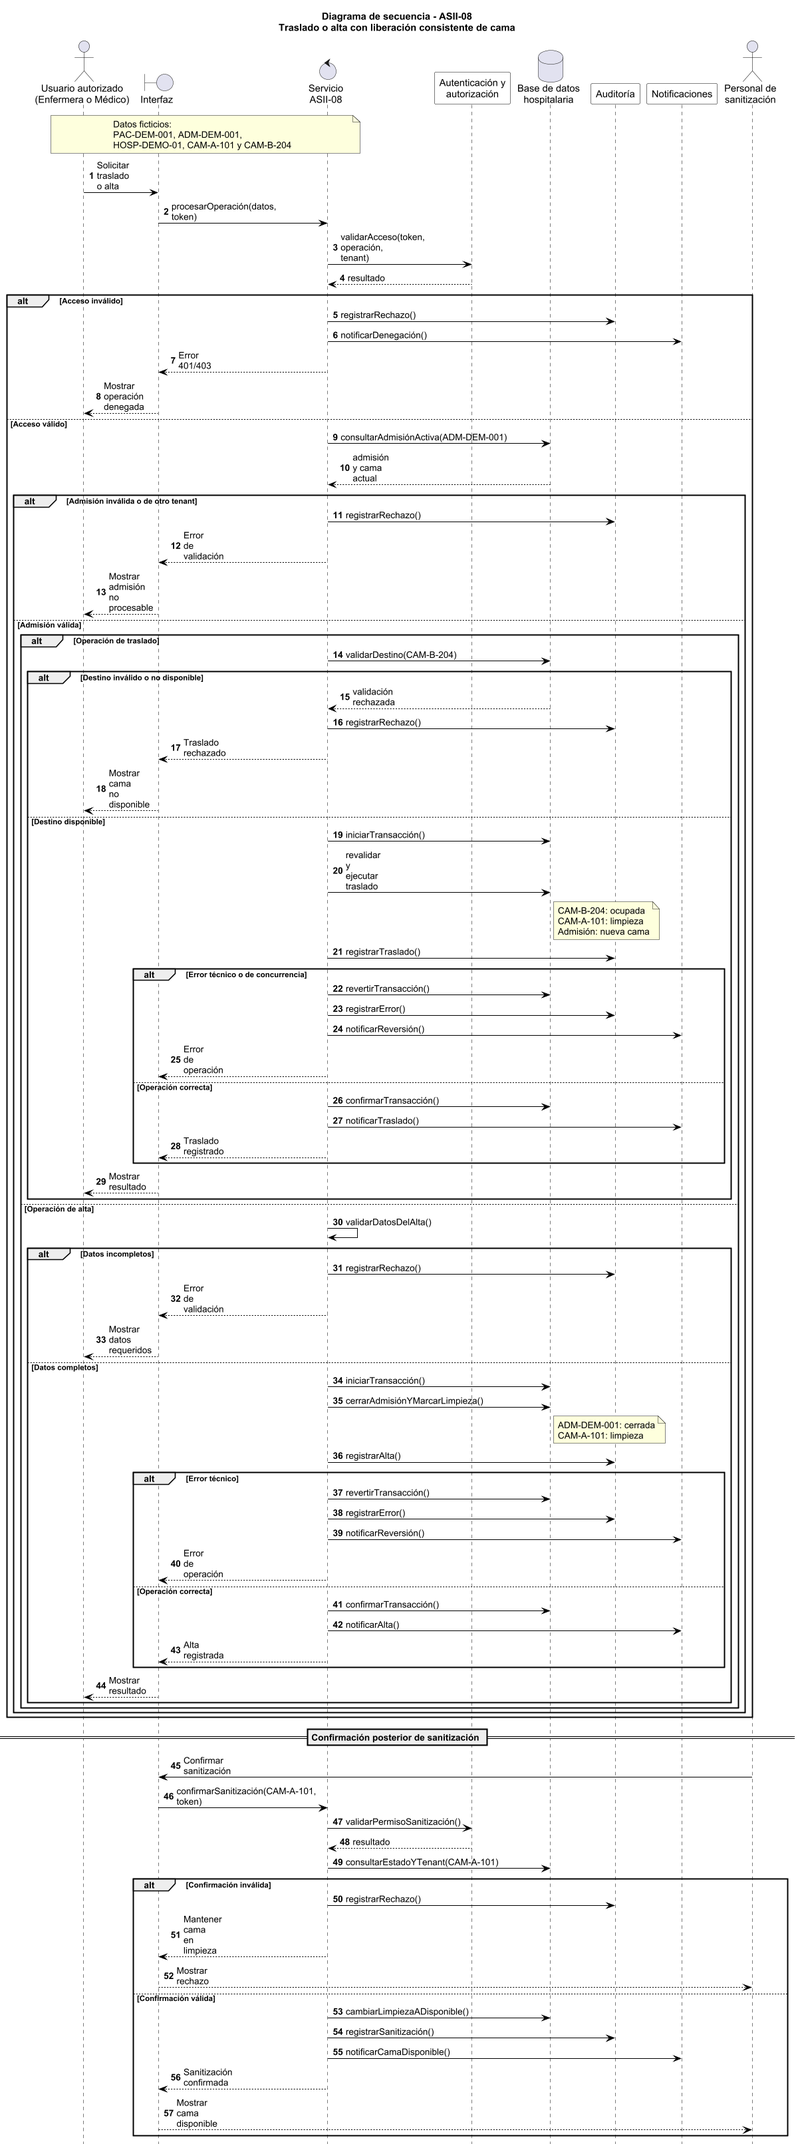
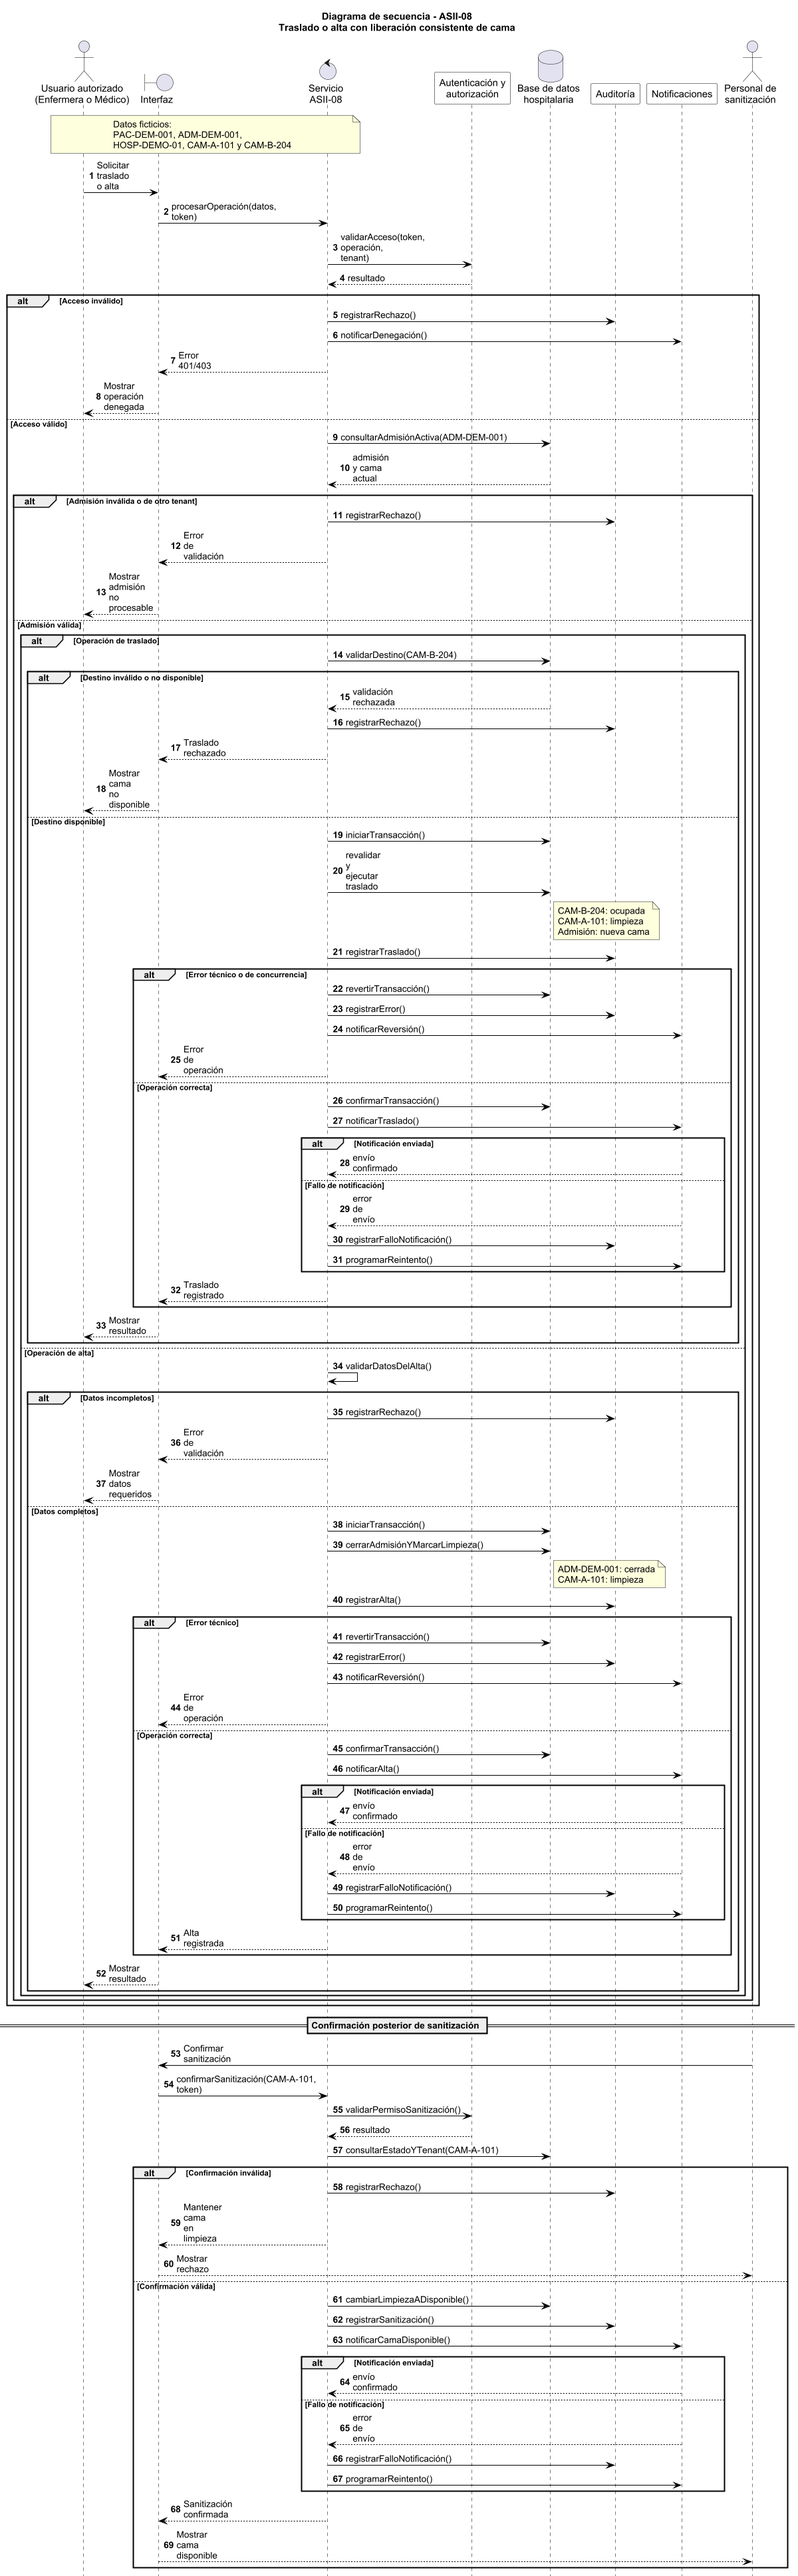
docs(trazabilidad): agregar matriz y completar manejo de notificaciones

diff --git a/trazabilidad/matriz-trazabilidad.md b/trazabilidad/matriz-trazabilidad.md
@@ -1,0 +1,75 @@
+# Matriz de trazabilidad — ASII-08
+
+## 1. Identificación
+
+- **Módulo:** ASII-08 — Traslados, altas y liberación de camas
+- **Proceso:** Traslado o alta del paciente con liberación consistente de cama
+- **Fuentes editables:** `casos-de-uso.puml`, `actividad.puml` y `secuencia.puml`
+- **Datos utilizados:** exclusivamente ficticios
+
+## 2. Requisitos funcionales
+
+| ID | Diagrama de casos de uso | Diagrama de actividad | Diagrama de secuencia | Cobertura |
+|---|---|---|---|---|
+| RF-01 | Validar operación, autorización y tenant | Consultar la admisión `ADM-DEM-001`; decisión sobre admisión activa y tenant | `consultarAdmisiónActiva(ADM-DEM-001)` | Completa |
+| RF-02 | Gestionar traslado interno; Registrar alta hospitalaria | Decisión `¿Tipo de operación?` | Fragmentos alternativos `Operación de traslado` y `Operación de alta` | Completa |
+| RF-03 | Validar operación, autorización y tenant | Autenticar al usuario; validar permisos | `validarAcceso(token, operación, tenant)` | Completa |
+| RF-04 | Validar operación, autorización y tenant | Validar hospital y tenant; validar destino del mismo tenant | Consulta de admisión, destino, estado y tenant | Completa |
+| RF-05 | Gestionar traslado interno | Decisión `¿Destino distinto, disponible y del mismo tenant?` | `validarDestino(CAM-B-204)` | Completa |
+| RF-06 | Gestionar traslado interno | Validar y revalidar disponibilidad de la cama destino | `validarDestino()` y `revalidar y ejecutar traslado` | Completa |
+| RF-07 | Gestionar traslado interno | Relacionar admisión con `CAM-B-204` | `revalidar y ejecutar traslado`; nota `Admisión: nueva cama` | Completa |
+| RF-08 | Gestionar traslado interno | Marcar `CAM-B-204` como ocupada | Nota de resultado `CAM-B-204: ocupada` | Completa |
+| RF-09 | Gestionar traslado interno; Registrar alta hospitalaria | Marcar `CAM-A-101` como limpieza | Notas de traslado y alta con `CAM-A-101: limpieza` | Completa |
+| RF-10 | Registrar alta hospitalaria | Validar datos obligatorios; cerrar `ADM-DEM-001` | `validarDatosDelAlta()` y `cerrarAdmisiónYMarcarLimpieza()` | Completa |
+| RF-11 | Confirmar sanitización de cama | Cambiar estado de limpieza a disponible después de confirmación válida | `cambiarLimpiezaADisponible()` | Completa |
+| RF-12 | Registrar auditoría y notificar resultado | Registrar operaciones aceptadas, rechazadas y errores | Mensajes `registrarTraslado`, `registrarAlta`, `registrarRechazo`, `registrarError` y `registrarSanitización` | Completa |
+| RF-13 | Casos principales y consulta de operaciones | Notificaciones de éxito, rechazo y error | Respuestas de la interfaz al usuario y al personal de sanitización | Completa |
+| RF-14 | Registrar auditoría y notificar resultado | Notificar operación exitosa, rechazo, reversión y cama disponible | Participante `Notificaciones` y mensajes correspondientes | Completa |
+| RF-15 | Registrar auditoría y notificar resultado | Iniciar, confirmar o revertir transacción | `iniciarTransacción`, `confirmarTransacción` y `revertirTransacción` | Completa |
+
+## 3. Reglas de negocio
+
+| ID | Elemento UML relacionado | Cobertura |
+|---|---|---|
+| RN-01 | Validación de admisión activa en actividad y secuencia | Completa |
+| RN-02 | Validación de tenant en los tres diagramas | Completa |
+| RN-03 | Decisión de destino distinto en actividad y validación de destino en secuencia | Completa |
+| RN-04 | Validación de disponibilidad de la cama destino | Completa |
+| RN-05 | En traslado solo se actualiza la cama asociada; no se cierra la admisión | Completa |
+| RN-06 | En alta se ejecuta `cerrarAdmisiónYMarcarLimpieza()` | Completa |
+| RN-07 | La cama liberada pasa primero a limpieza y después a disponible | Completa |
+| RN-08 | Validación de permiso para confirmar sanitización | Completa |
+| RN-09 | Ramas de error con reversión de la transacción | Completa |
+| RN-10 | Leyendas y notas con identificadores ficticios `PAC-DEM-001`, `ADM-DEM-001`, `HOSP-DEMO-01`, `CAM-A-101` y `CAM-B-204` | Completa |
+
+## 4. Excepciones
+
+| ID | Diagrama de actividad | Diagrama de secuencia | Respuesta representada | Cobertura |
+|---|---|---|---|---|
+| EX-01 | Autenticación inválida | Fragmento `Acceso inválido` | Error 401/403, rechazo y auditoría | Completa |
+| EX-02 | Usuario sin autorización | Validación de acceso y respuesta 403 | Operación denegada y registrada | Completa |
+| EX-03 | Admisión inexistente o inactiva | Fragmento `Admisión inválida o de otro tenant` | No se procesa la operación | Completa |
+| EX-04 | Admisión o cama de otro tenant | Validaciones de tenant | Rechazo y error de validación | Completa |
+| EX-05 | Destino igual a la cama actual | Validación de destino distinto | Traslado rechazado | Completa |
+| EX-06 | Destino ocupado, en limpieza o mantenimiento | Validación de disponibilidad | Mostrar cama no disponible | Completa |
+| EX-07 | Datos del alta incompletos | Fragmento `Datos incompletos` | Mostrar datos requeridos sin cerrar la admisión | Completa |
+| EX-08 | Sanitización por personal no autorizado | Fragmento `Confirmación inválida` | Mantener cama en limpieza y registrar rechazo | Completa |
+| EX-09 | Cambio concurrente de la cama destino | Fragmento `Error técnico o de concurrencia` | Revertir transacción y notificar indisponibilidad | Completa |
+| EX-10 | Error en admisión, camas o auditoría | Ramas de error transaccional | Revertir cambios y mostrar error controlado | Completa |
+| EX-11 | La notificación se ejecuta después de confirmar la transacción o el cambio principal | Los fragmentos de traslado, alta y sanitización registran el fallo y programan un reintento | Los cambios principales permanecen confirmados y el fallo queda auditado para reintento | Completa |
+
+## 5. Resultados finales trazados
+
+| Resultado | Casos de uso | Actividad | Secuencia |
+|---|---|---|---|
+| Traslado completado | Gestionar traslado interno | Destino ocupada, origen en limpieza y admisión asociada | Confirmar transacción y notificar traslado |
+| Alta completada | Registrar alta hospitalaria | Admisión cerrada y cama en limpieza | Confirmar transacción y notificar alta |
+| Sanitización confirmada | Confirmar sanitización de cama | Limpieza a disponible | Cambiar estado y notificar cama disponible |
+| Operación rechazada | Validación y consulta de excepciones | Terminaciones por validación fallida | Fragmentos alternativos de rechazo |
+| Error transaccional | Auditoría y resultado | Revertir transacción | `revertirTransacción()` y error de operación |
+
+## 6. Validación final
+
+La excepción **EX-11** quedó completamente representada en el diagrama de secuencia. Cuando falla una notificación después de completar la operación principal, el sistema conserva los cambios confirmados, registra el fallo en auditoría y programa un reintento.
+
+La matriz no presenta brechas pendientes entre los requisitos definidos y los elementos UML elaborados.
